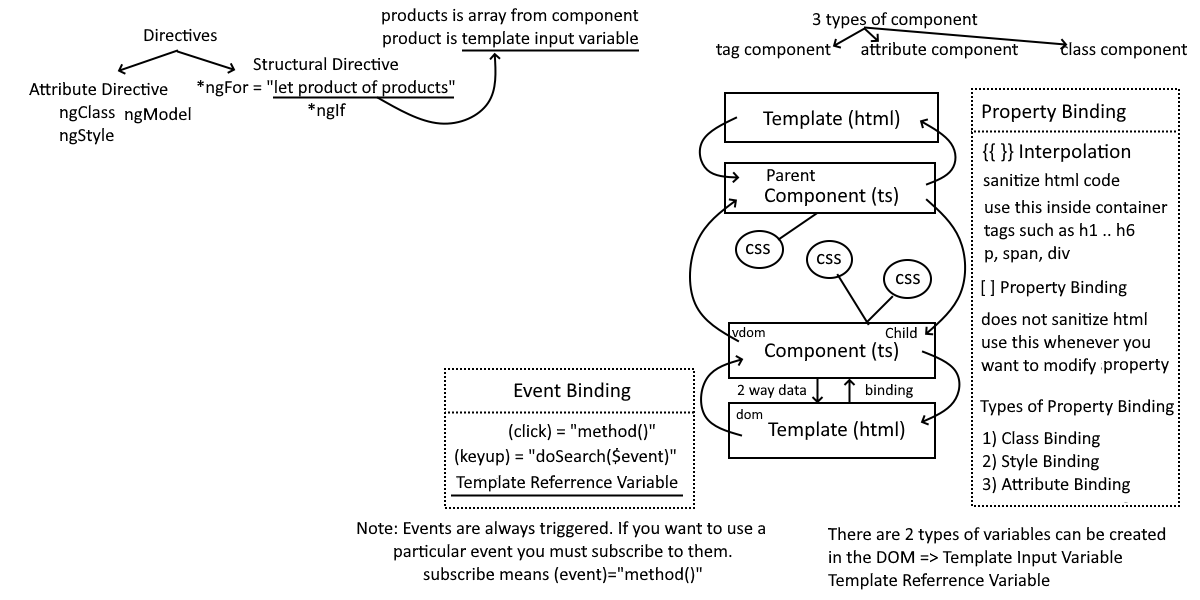
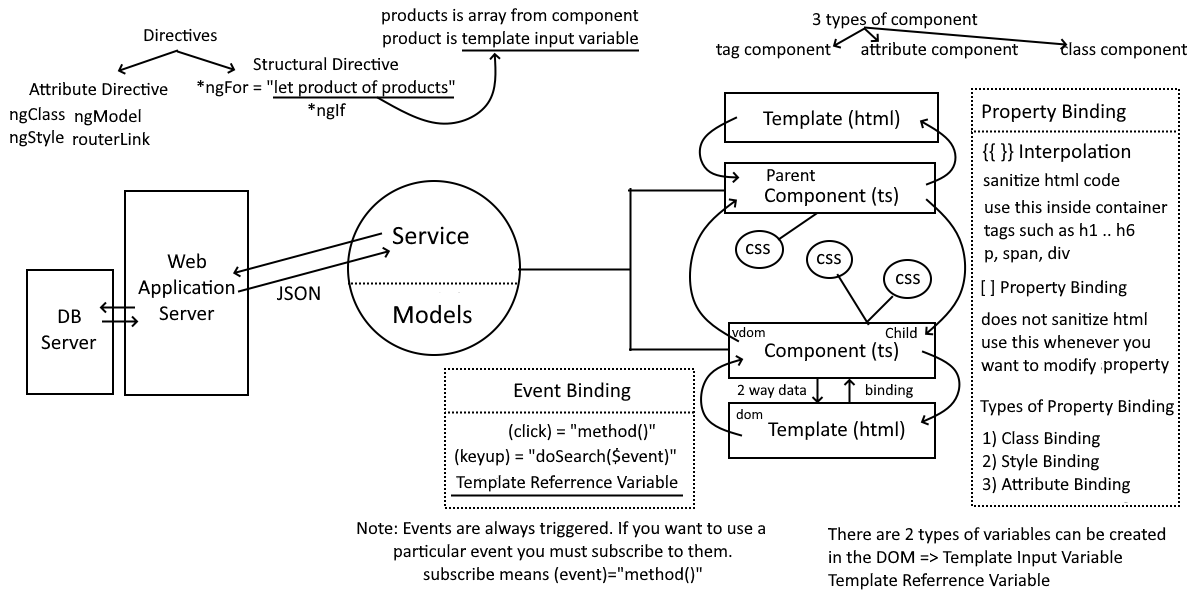
Services
Services

diff --git a/Angular/ecommerce/src/app/app.module.ts b/Angular/ecommerce/src/app/app.module.ts
@@ -9,6 +9,7 @@ import { BrowserModule } from '@angular/platform-browser';
 import { FormsModule } from '@angular/forms';
 import { RouterModule } from '@angular/router';
 import { approutes } from './router.config';
+import { HttpClientModule } from '@angular/common/http';
 
 import { AppComponent } from './app.component';
 import { PageHeaderComponent } from './page-header/page-header.component';
@@ -37,7 +38,8 @@ import { MenuComponent } from './menu/menu.component';
   imports: [
     BrowserModule,
     FormsModule,
-    RouterModule.forRoot(approutes)
+    RouterModule.forRoot(approutes),
+    HttpClientModule
   ],
   providers: [],
   bootstrap: [AppComponent]

diff --git a/Angular/ecommerce/src/app/services/shopping-cart.service.spec.ts b/Angular/ecommerce/src/app/services/shopping-cart.service.spec.ts
@@ -1,0 +1,16 @@
+import { TestBed } from '@angular/core/testing';
+
+import { ShoppingCartService } from './shopping-cart.service';
+
+describe('ShoppingCartService', () => {
+  let service: ShoppingCartService;
+
+  beforeEach(() => {
+    TestBed.configureTestingModule({});
+    service = TestBed.inject(ShoppingCartService);
+  });
+
+  it('should be created', () => {
+    expect(service).toBeTruthy();
+  });
+});

diff --git a/Angular/ecommerce/src/app/services/product.service.spec.ts b/Angular/ecommerce/src/app/services/product.service.spec.ts
@@ -1,0 +1,16 @@
+import { TestBed } from '@angular/core/testing';
+
+import { ProductService } from './product.service';
+
+describe('ProductService', () => {
+  let service: ProductService;
+
+  beforeEach(() => {
+    TestBed.configureTestingModule({});
+    service = TestBed.inject(ProductService);
+  });
+
+  it('should be created', () => {
+    expect(service).toBeTruthy();
+  });
+});

diff --git a/Angular/ecommerce/src/app/services/user.service.spec.ts b/Angular/ecommerce/src/app/services/user.service.spec.ts
@@ -1,0 +1,16 @@
+import { TestBed } from '@angular/core/testing';
+
+import { UserService } from './user.service';
+
+describe('UserService', () => {
+  let service: UserService;
+
+  beforeEach(() => {
+    TestBed.configureTestingModule({});
+    service = TestBed.inject(UserService);
+  });
+
+  it('should be created', () => {
+    expect(service).toBeTruthy();
+  });
+});

diff --git a/Angular/ecommerce/src/app/services/shopping-cart.service.ts b/Angular/ecommerce/src/app/services/shopping-cart.service.ts
@@ -1,0 +1,9 @@
+import { Injectable } from '@angular/core';
+
+@Injectable({
+  providedIn: 'root'
+})
+export class ShoppingCartService {
+
+  constructor() { }
+}

diff --git a/Angular/ecommerce/src/app/services/product.service.ts b/Angular/ecommerce/src/app/services/product.service.ts
@@ -1,0 +1,9 @@
+import { Injectable } from '@angular/core';
+
+@Injectable({
+  providedIn: 'root'
+})
+export class ProductService {
+
+  constructor() { }
+}

diff --git a/Angular/ecommerce/src/app/services/user.service.ts b/Angular/ecommerce/src/app/services/user.service.ts
@@ -1,0 +1,9 @@
+import { Injectable } from '@angular/core';
+
+@Injectable({
+  providedIn: 'root'
+})
+export class UserService {
+
+  constructor() { }
+}
